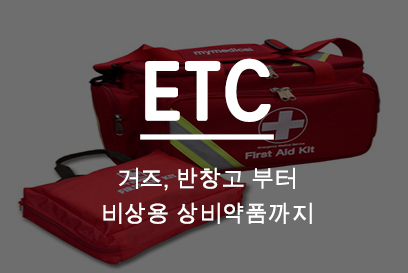
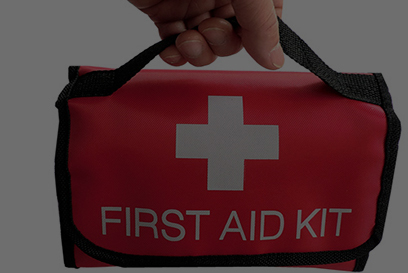
메인페이지 수정완료

diff --git a/src/main/webapp/resources/css/home.css b/src/main/webapp/resources/css/home.css
@@ -1,11 +1,13 @@
 @CHARSET "UTF-8";
 
+@import url( "http://fonts.googleapis.com/earlyaccess/notosanskr.css" );
+
 html, body, div, dl, dt, dd, ul, ol, li, h1, h2, h3, h4, h5, h6, pre,
 	code, form, fieldset, legend, input, textarea, p, blockquote, th, td,
 	img {
 	margin: 0 auto;
 	padding: 0;
-	border:none;
+	border: none;
 }
 
 #main_content_wrap {
@@ -18,16 +20,40 @@ html, body, div, dl, dt, dd, ul, ol, li, h1, h2, h3, h4, h5, h6, pre,
 	margin: 0 auto;
 }
 
-
-
-.main_contents .main_banner2>img, .main_banner3>img, .main_banner4>img,
-	.main_banner5>img {
-	border: none;
-	vertical-align: top;
-}
-
 .main_banner2 {
 	margin-left: 15px;
+}
+
+#main_banner_clothes {
+	width: 408px;
+	height: 273px;
+	background: url('/h72/resources/image/clothes.jpg');
+}
+
+#main_banner_food {
+	margin-top: 6px;
+	width: 408px;
+	height: 273px;
+	background: url('/h72/resources/image/food.jpg');
+	width: 408px;
+}
+
+#main_banner_tool {
+	width: 408px;
+	height: 273px;
+	background: url('/h72/resources/image/tool.jpg');
+}
+
+#main_banner_etc {
+	margin-top: 6px;
+	width: 408px;
+	height: 273px;
+	background: url('/h72/resources/image/etc.jpg');
+}
+
+a #main_banner_clothes:hover, a #main_banner_food:hover, a #main_banner_tool:hover,
+	a #main_banner_etc:hover, a .main_banner3:hover, a .main_banner5:hover {
+	opacity:0.7;
 }
 
 .main_banner2, .main_banner4 {
@@ -44,15 +70,36 @@ html, body, div, dl, dt, dd, ul, ol, li, h1, h2, h3, h4, h5, h6, pre,
 	margin: 6px;
 	margin-bottom: 10px;
 	margin-top: 0px;
+	background: url('/h72/resources/image/backpack.jpg');
 }
 
 .main_banner5 {
+	margin-left: 15px;
+	width: 1250px;
+	height: 552px;
+	float: left;
 	margin-bottom: 70px;
+	background: url('/h72/resources/image/kit.jpg');
 }
 
-.main_banner2 a:hover, .main_banner3 a:hover, .main_banner4 a:hover,
-	.main_banner5 a:hover {
-	opacity: 0.7;
+.main_contents a {
+	text-decoration: none;
+	color: white;
+}
+
+.main_contents #main_label_title, #main_label_title2 {
+	font-family: "Noto Sans KR", sans-serif;
+	font-size: 30pt;
+}
+
+.main_contents #main_label_title2, #main_label_contents2 {
+	position: relative;
+	top: 240px;
+}
+
+.main_contents #main_label_title, #main_label_contents {
+	position: relative;
+	top: 95px;
 }
 
 .main_mySlides {
@@ -73,25 +120,25 @@ html, body, div, dl, dt, dd, ul, ol, li, h1, h2, h3, h4, h5, h6, pre,
 	/* 	position: absolute;
 	top: 0; */
 }
+
 .dot {
-  height: 13px;
-  width: 13px;
-  margin: 0 2px;
-  background-color: #bbb;
-  border-radius: 50%;
-  display: inline-block;
-  transition: background-color 0.6s ease;
+	height: 13px;
+	width: 13px;
+	margin: 0 2px;
+	background-color: #bbb;
+	border-radius: 50%;
+	display: inline-block;
+	transition: background-color 0.6s ease;
 }
+
 .active {
 	background-color: #717171;
 }
 
 /* Fading animation */
-
-
 .fade img {
 	width: 1250px;
-	height: 732px;
+	height: 552px;
 	margin-top: 65px;
 	-webkit-animation-name: fade;
 	-webkit-animation-duration: 1.5s;
@@ -117,7 +164,6 @@ keyframes fade {
 to {
 	opacity: 1
 }
-
 
 /* Next & previous buttons */
 

diff --git a/src/main/webapp/resources/css/main_header.css b/src/main/webapp/resources/css/main_header.css
@@ -34,8 +34,9 @@ body {
 }
 
 #main_header .main_line1 .main_left img {
+	height: 85%;
+	margin-top: 3px;
 	border: none;
-	vertical-align: top;
 }
 
 #main_header .main_line1 .main_right {
@@ -78,23 +79,24 @@ body {
 }
 
 #main_header .main_line2 .main_cate ul {
-	float: left; display: block;
+	float: left;
+	display: block;
 	list-style-type: disc;
 	line-height: 38px;
 }
 
 #main_header .main_line2 .main_cate li {
 	display: block;
-	float:left;
+	float: left;
 	padding: 0 10px 0 20px;
 	list-style: none;
-	width:80px;
-
+	width: 80px;
 }
 
 #main_cateIdx1 a:hover span, #main_cateIdx2 a:hover span, #main_cateIdx3 a:hover span,
-	#main_cateIdx4 a:hover span, #main_cateIdx5 a:hover span, #main_cateIdx6 a:hover span {
-	display: none; 
+	#main_cateIdx4 a:hover span, #main_cateIdx5 a:hover span,
+	#main_cateIdx6 a:hover span {
+	display: none;
 }
 
 #main_cateIdx1 a:hover:before {
@@ -127,12 +129,10 @@ body {
 	content: "셀프 키트구성";
 }
 
-
 #main_header .main_line2 .main_cate a {
 	cursor: auto;
 	text-decoration: none;
-	color:  black;
-
+	color: black;
 }
 
 #main_header .main_line2 .main_search {
@@ -250,5 +250,4 @@ body {
 	bottom: 30px;
 	right: 30px;
 	z-index: 9999;
-	
 }
